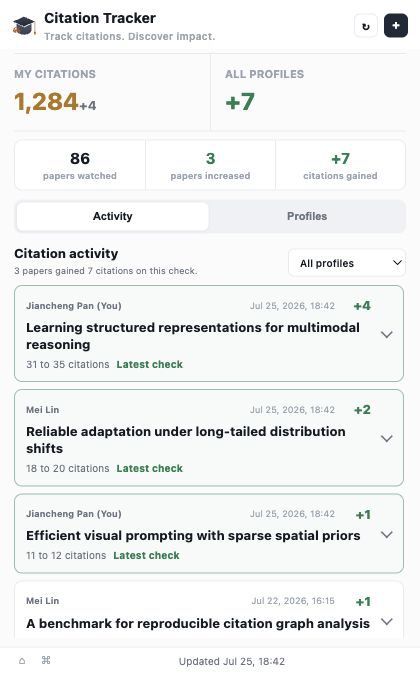
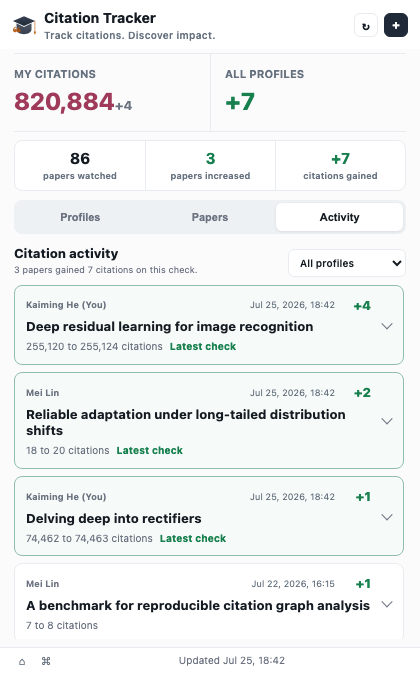
update

diff --git a/tests/popup-preview.js b/tests/popup-preview.js
@@ -3,8 +3,8 @@ const previewState = {
   ownScholarId: 'DhtAFkwAAAAJ',
   trackedScholarIds: ['abc123AAAAAJ'],
   scholarIds: ['DhtAFkwAAAAJ', 'abc123AAAAAJ'],
-  ownCitations: '1,284',
-  citations: '2,917',
+  ownCitations: '820,884',
+  citations: '822,517',
   ownCitationDelta: 4,
   citationDelta: 7,
   lastUpdated: previewNow,
@@ -21,12 +21,12 @@ const previewState = {
   citationProfiles: [
     {
       id: 'DhtAFkwAAAAJ',
-      name: 'Jiancheng Pan',
+      name: 'Kaiming He',
       url: '#',
-      citations: '1,284',
-      citationsNumber: 1284,
-      hIndex: '18',
-      i10Index: '31',
+      citations: '820,884',
+      citationsNumber: 820884,
+      hIndex: '77',
+      i10Index: '89',
       trackedArticles: 42,
       changedArticles: 2,
       articleCitationGain: 5,
@@ -53,15 +53,15 @@ const previewState = {
 const previewEvents = [
   {
     articleId: 'paper-a',
-    title: 'Learning structured representations for multimodal reasoning',
+    title: 'Deep residual learning for image recognition',
     profileId: 'DhtAFkwAAAAJ',
-    profileName: 'Jiancheng Pan',
+    profileName: 'Kaiming He',
     isOwn: true,
-    authors: 'J. Pan, R. Kumar, M. Ito',
-    publication: 'Transactions on Machine Learning Research, 2025',
-    year: '2025',
-    previousCitations: 31,
-    currentCitations: 35,
+    authors: 'K. He, X. Zhang, S. Ren, J. Sun',
+    publication: 'Proceedings of CVPR, 2016',
+    year: '2016',
+    previousCitations: 255120,
+    currentCitations: 255124,
     delta: 4
   },
   {
@@ -79,15 +79,15 @@ const previewEvents = [
   },
   {
     articleId: 'paper-c',
-    title: 'Efficient visual prompting with sparse spatial priors',
+    title: 'Delving deep into rectifiers',
     profileId: 'DhtAFkwAAAAJ',
-    profileName: 'Jiancheng Pan',
+    profileName: 'Kaiming He',
     isOwn: true,
-    authors: 'J. Pan, E. Voss',
-    publication: 'Proceedings of CVPR, 2023',
-    year: '2023',
-    previousCitations: 11,
-    currentCitations: 12,
+    authors: 'K. He, X. Zhang, S. Ren, J. Sun',
+    publication: 'Proceedings of ICCV, 2015',
+    year: '2015',
+    previousCitations: 74462,
+    currentCitations: 74463,
     delta: 1
   },
   {
@@ -118,46 +118,46 @@ previewState.latestArticleChanges = previewEvents.slice(0, 3);
 previewState.articleSnapshots = {
   DhtAFkwAAAAJ: {
     profileId: 'DhtAFkwAAAAJ',
-    profileName: 'Jiancheng Pan',
+    profileName: 'Kaiming He',
     capturedAt: previewNow,
     articles: [
       {
         id: 'paper-a',
-        title: 'Learning structured representations for multimodal reasoning',
-        authors: 'J. Pan, R. Kumar, M. Ito',
-        publication: 'Transactions on Machine Learning Research, 2025',
-        year: '2025',
-        citations: 35,
+        title: 'Deep residual learning for image recognition',
+        authors: 'K. He, X. Zhang, S. Ren, J. Sun',
+        publication: 'Proceedings of CVPR, 2016',
+        year: '2016',
+        citations: 255124,
         articleUrl: '#article-a',
         citationsUrl: '#citations-a'
       },
       {
         id: 'paper-c',
-        title: 'Efficient visual prompting with sparse spatial priors',
-        authors: 'J. Pan, E. Voss',
-        publication: 'Proceedings of CVPR, 2023',
-        year: '2023',
-        citations: 12,
+        title: 'Delving deep into rectifiers',
+        authors: 'K. He, X. Zhang, S. Ren, J. Sun',
+        publication: 'Proceedings of ICCV, 2015',
+        year: '2015',
+        citations: 74463,
         articleUrl: '#article-c',
         citationsUrl: '#citations-c'
       },
       {
         id: 'paper-e',
-        title: 'Cross-domain segmentation with adaptive prompts',
-        authors: 'J. Pan, N. Silva, K. Rao',
-        publication: 'International Journal of Computer Vision, 2024',
-        year: '2024',
-        citations: 28,
+        title: 'Mask R-CNN',
+        authors: 'K. He, G. Gkioxari, P. Dollar, R. Girshick',
+        publication: 'Proceedings of ICCV, 2017',
+        year: '2017',
+        citations: 68842,
         articleUrl: '#article-e',
         citationsUrl: '#citations-e'
       },
       {
         id: 'paper-f',
-        title: 'Evaluating spatial priors in low-data vision systems',
-        authors: 'J. Pan, L. Anders',
-        publication: 'Pattern Recognition Letters, 2022',
-        year: '2022',
-        citations: 9,
+        title: 'Spatial pyramid pooling in deep convolutional networks',
+        authors: 'K. He, X. Zhang, S. Ren, J. Sun',
+        publication: 'IEEE Transactions on Pattern Analysis and Machine Intelligence, 2015',
+        year: '2015',
+        citations: 54871,
         articleUrl: '#article-f',
         citationsUrl: '#citations-f'
       }
@@ -202,7 +202,9 @@ previewState.articleSnapshots = {
   }
 };
 
-const previewMode = new URLSearchParams(window.location.search).get('mode');
+const previewParams = new URLSearchParams(window.location.search);
+const previewMode = previewParams.get('mode');
+const previewView = previewParams.get('view');
 
 if (previewMode === 'many') {
   const venues = [
@@ -217,7 +219,7 @@ if (previewMode === 'many') {
     previewState.articleSnapshots.DhtAFkwAAAAJ.articles.push({
       id: `paper-extra-${paperNumber}`,
       title: `Additional study of robust visual representations ${paperNumber}`,
-      authors: 'J. Pan, M. Ito, R. Kumar',
+      authors: 'K. He, X. Zhang, S. Ren, J. Sun',
       publication: `${venues[index % venues.length]}, ${2021 + (index % 5)}`,
       year: String(2021 + (index % 5)),
       citations: 7 + index,
@@ -272,3 +274,9 @@ window.chrome = {
     }
   }
 };
+
+window.addEventListener('load', () => {
+  if (previewView) {
+    document.getElementById(`${previewView}Tab`)?.click();
+  }
+});
